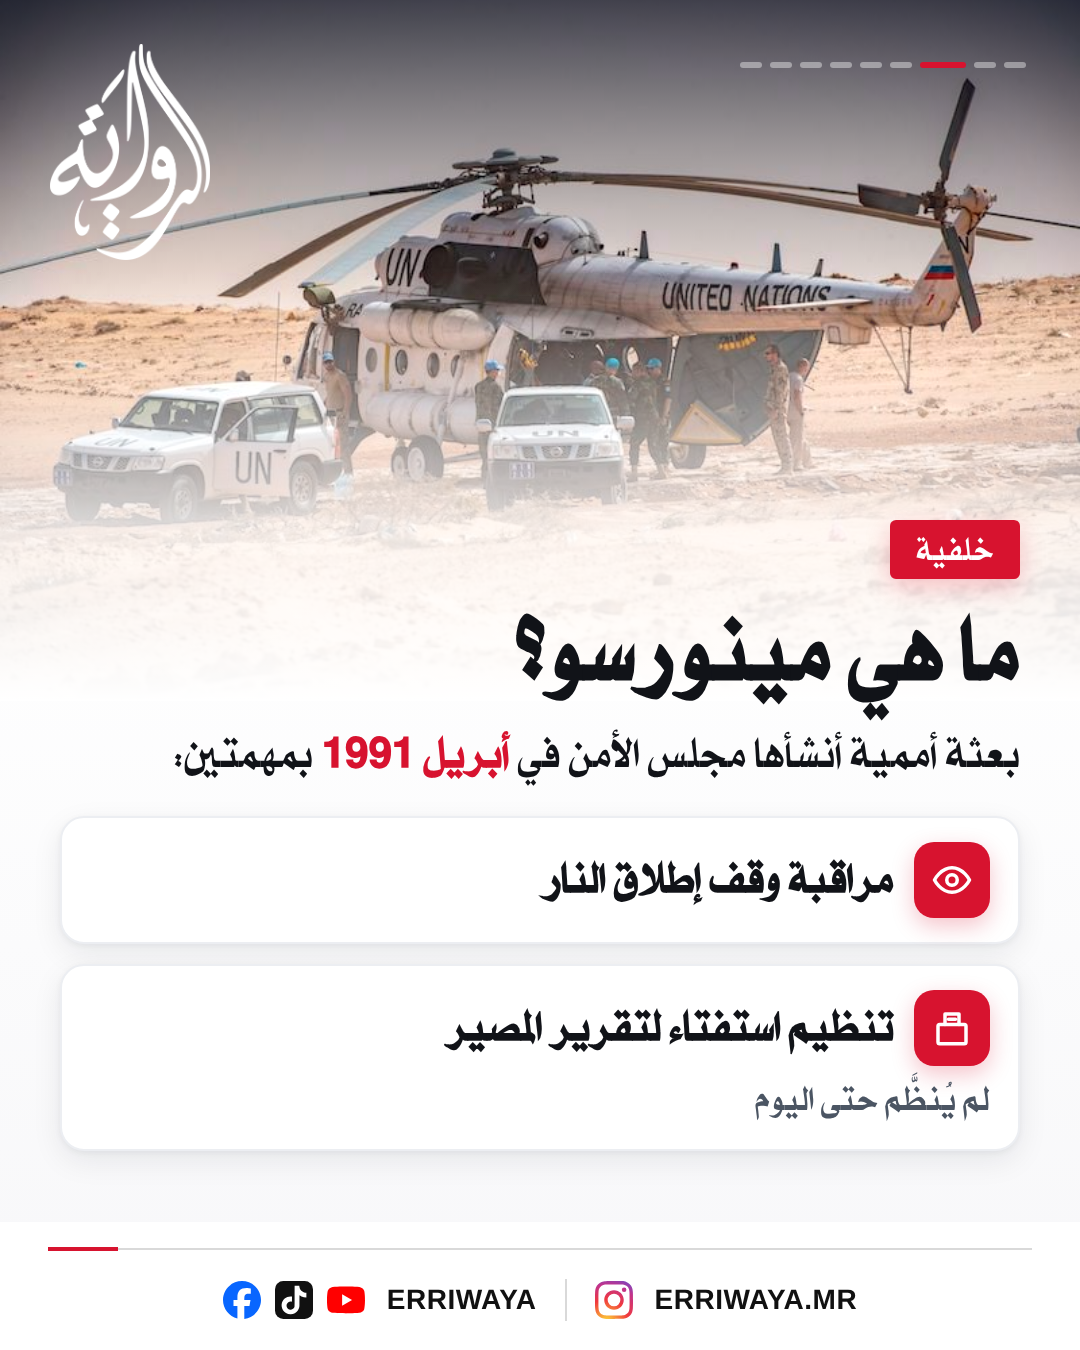
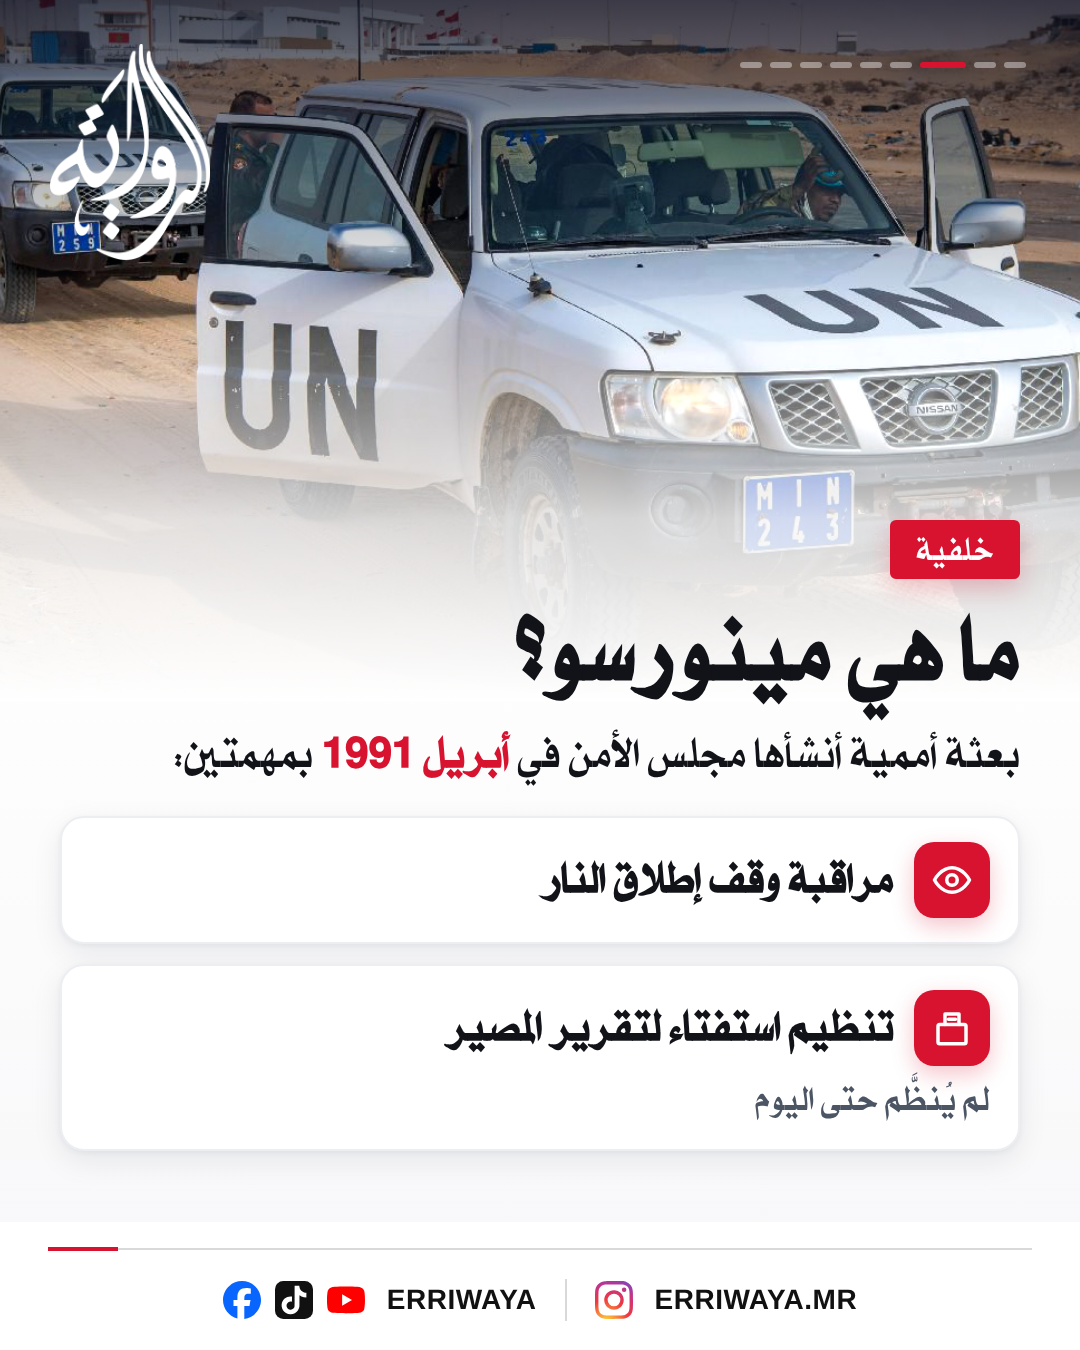
MINURSO carousel: photos matched to each slide's text
Claude-Session: https://claude.ai/code/session_01S8ECGBwohQoomeMp3zGTaV

diff --git a/carousels/2026-10-29-minurso/carousel.html b/carousels/2026-10-29-minurso/carousel.html
@@ -103,7 +103,7 @@
 
 <!-- 1 · cover -->
 <section class="slide tall">
-  <div class="photo" style="align-items:flex-end;overflow:hidden"><img src="img/desert-road.jpg" style="flex:none;width:100%;height:1250px;object-position:96% 100%"></div>
+  <div class="photo"><img src="img/unsc-chamber.jpg" style="object-position:58% 50%"></div>
   <div class="body" style="top:780px">
     <span class="kick">الصحراء الغربية · مجلس الأمن</span>
     <h1 style="font-size:100px;line-height:1.15">مينورسو<br>على طاولة مجلس الأمن</h1>
@@ -128,7 +128,7 @@
 
 <!-- 3 · what is MINURSO -->
 <section class="slide">
-  <div class="photo"><img src="img/un-helicopter.jpg" style="object-position:50% 40%"></div>
+  <div class="photo"><img src="img/minurso.webp" style="object-position:62% 50%"></div>
   <div class="body">
     <span class="kick">خلفية</span>
     <h1>ما هي مينورسو؟</h1>
@@ -159,7 +159,7 @@
 
 <!-- 5 · why now -->
 <section class="slide">
-  <div class="photo" style="height:620px"><img src="img/unsc-vote.jpg" style="object-position:50% 55%"></div>
+  <div class="photo" style="height:620px"><img src="img/unsc-vote.jpg" style="object-position:70% 45%"></div>
   <div class="body" style="top:420px">
     <span class="kick">الموعد</span>
     <h1>لماذا الآن؟</h1>
@@ -174,7 +174,7 @@
 
 <!-- 6 · the US draft -->
 <section class="slide">
-  <div class="photo" style="height:560px"><img src="img/unsc-chamber.jpg" style="object-position:30% 50%"></div>
+  <div class="photo" style="height:560px"><img src="img/unsc-chamber.jpg" style="object-position:5% 50%"></div>
   <div class="body" style="top:330px">
     <span class="kick">المسودة الأمريكية</span>
     <h1>ماذا تقترح واشنطن؟</h1>
@@ -204,7 +204,7 @@
 
 <!-- 8 · scenarios -->
 <section class="slide">
-  <div class="photo" style="height:600px"><img src="img/refugees-tent.jpg" style="object-position:50% 35%"></div>
+  <div class="photo" style="height:600px"><img src="img/un-helicopter.jpg" style="object-position:50% 40%"></div>
   <div class="body" style="top:360px">
     <span class="kick">ماذا بعد؟</span>
     <h1>ثلاثة سيناريوهات</h1>
@@ -219,7 +219,7 @@
 
 <!-- 9 · outro -->
 <section class="slide tall">
-  <div class="photo" style="height:860px"><img src="img/minurso.webp" style="object-position:60% 50%"></div>
+  <div class="photo" style="height:860px"><img src="img/unsc-vote.jpg" style="object-position:30% 60%"></div>
   <div class="body" style="top:640px">
     <span class="kick">تابعونا</span>
     <h1 style="font-size:84px">نتيجة التصويت وتداعياته في <span class="red">الموجز الإخباري</span></h1>
